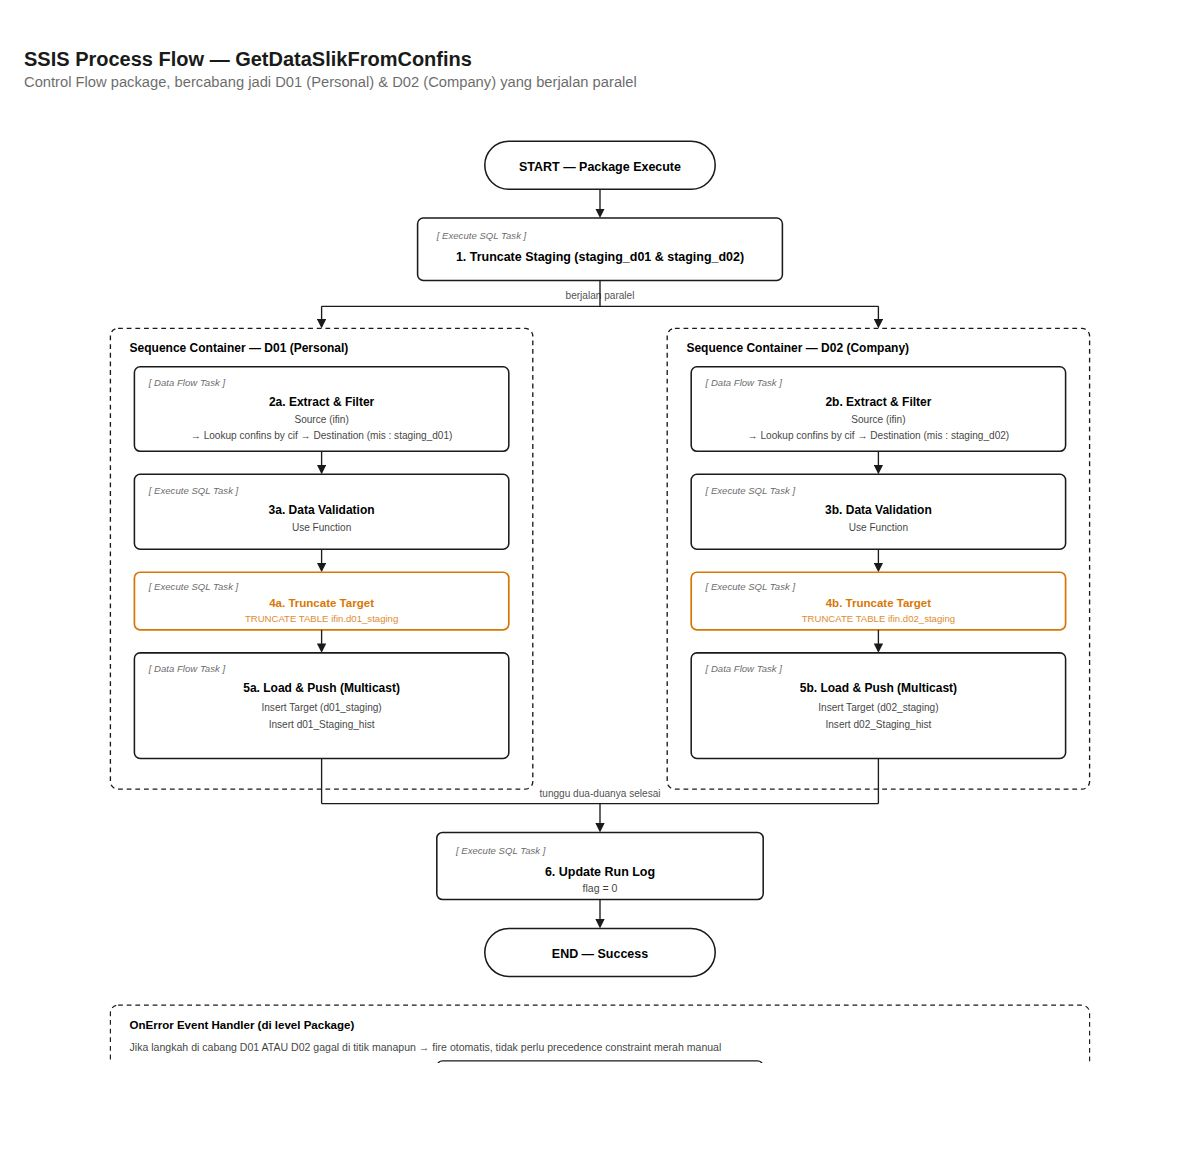
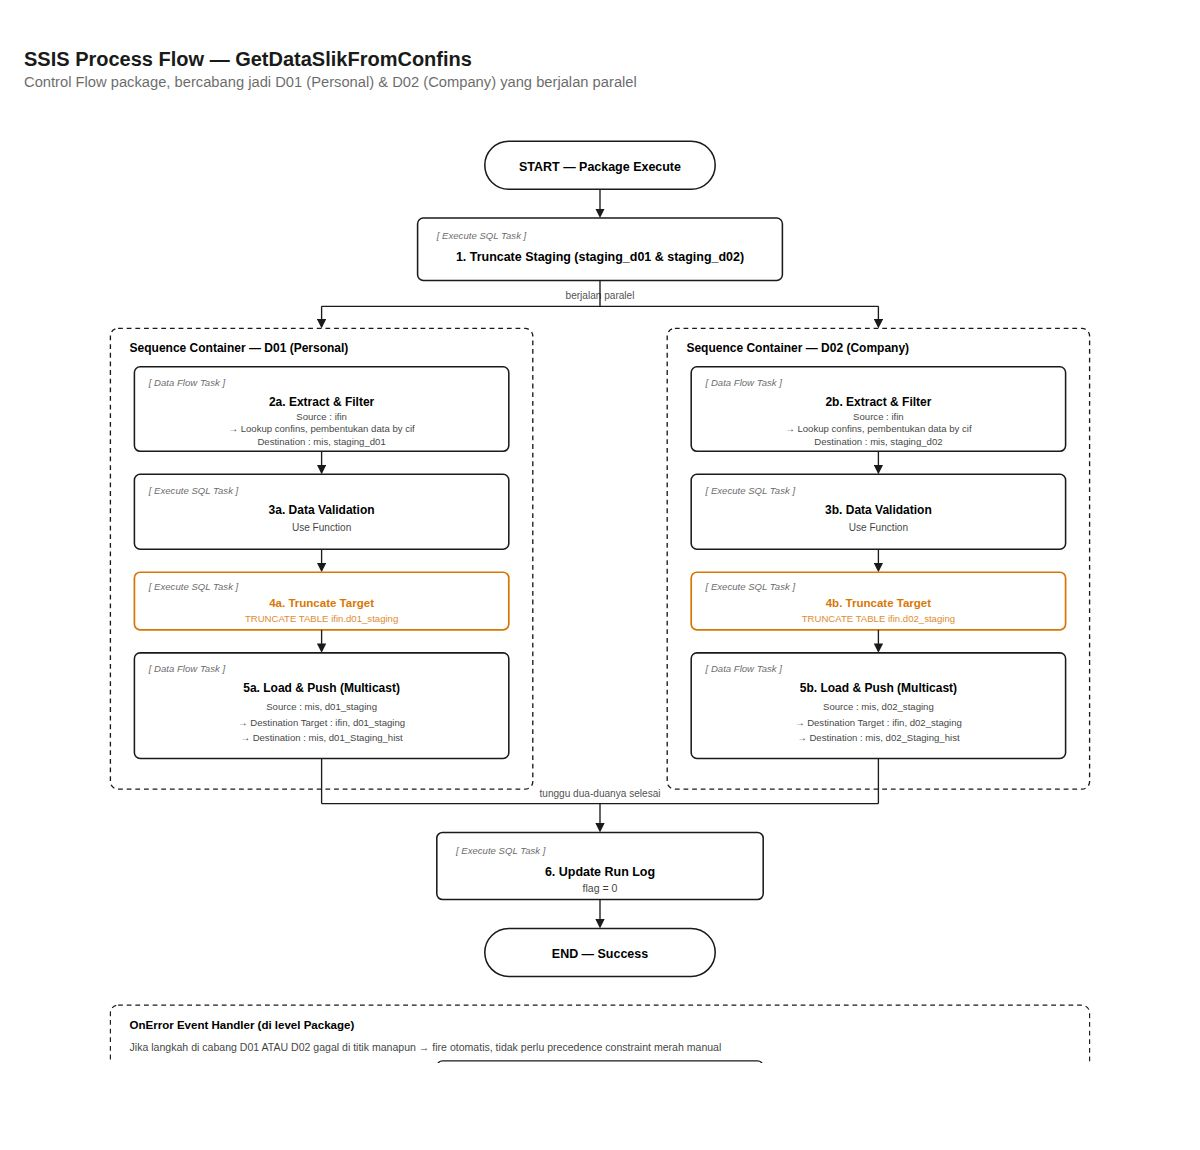
Align Load & Push / Extract & Filter wording between D01 and D02 branches
2a/2b: 'Source : ifin / -> Lookup confins, pembentukan data by cif /
Destination : mis, staging_dXX'
5a/5b: 'Source : mis, dXX_staging / -> Destination Target : ifin,
dXX_staging / -> Destination : mis, dXX_Staging_hist'

diff --git a/diagrams/slik-process-flow.html b/diagrams/slik-process-flow.html
@@ -63,8 +63,9 @@
       <rect x="115" y="255" width="390" height="88" rx="6" fill="none" stroke="currentColor" stroke-width="1.6"/>
       <text x="130" y="275" font-size="10" opacity="0.6" font-style="italic">[ Data Flow Task ]</text>
       <text x="310" y="296" text-anchor="middle" font-size="12.5" font-weight="650">2a. Extract &amp; Filter</text>
-      <text x="310" y="314" text-anchor="middle" font-size="10.5" opacity="0.75">Source (ifin)</text>
-      <text x="310" y="330" text-anchor="middle" font-size="10.5" opacity="0.75">→ Lookup confins by cif → Destination (mis : staging_d01)</text>
+      <text x="310" y="310" text-anchor="middle" font-size="10" opacity="0.75">Source : ifin</text>
+      <text x="310" y="323" text-anchor="middle" font-size="10" opacity="0.75">→ Lookup confins, pembentukan data by cif</text>
+      <text x="310" y="336" text-anchor="middle" font-size="10" opacity="0.75">Destination : mis, staging_d01</text>
       <line x1="310" y1="343" x2="310" y2="365" stroke="currentColor" stroke-width="1.4" marker-end="url(#arrow)"/>
 
       <rect x="115" y="367" width="390" height="78" rx="6" fill="none" stroke="currentColor" stroke-width="1.6"/>
@@ -83,8 +84,9 @@
       <rect x="115" y="553" width="390" height="110" rx="6" fill="none" stroke="currentColor" stroke-width="1.6"/>
       <text x="130" y="573" font-size="10" opacity="0.6" font-style="italic">[ Data Flow Task ]</text>
       <text x="310" y="594" text-anchor="middle" font-size="12.5" font-weight="650">5a. Load &amp; Push (Multicast)</text>
-      <text x="310" y="614" text-anchor="middle" font-size="10.5" opacity="0.75">Insert Target (d01_staging)</text>
-      <text x="310" y="631" text-anchor="middle" font-size="10.5" opacity="0.75">Insert d01_Staging_hist</text>
+      <text x="310" y="613" text-anchor="middle" font-size="10" opacity="0.75">Source : mis, d01_staging</text>
+      <text x="310" y="629" text-anchor="middle" font-size="10" opacity="0.75">→ Destination Target : ifin, d01_staging</text>
+      <text x="310" y="645" text-anchor="middle" font-size="10" opacity="0.75">→ Destination : mis, d01_Staging_hist</text>
 
       <!-- Sequence Container D02 (Company) -->
       <rect x="670" y="215" width="440" height="480" rx="8" fill="none" stroke="currentColor" stroke-width="1.4" stroke-dasharray="5 4"/>
@@ -93,8 +95,9 @@
       <rect x="695" y="255" width="390" height="88" rx="6" fill="none" stroke="currentColor" stroke-width="1.6"/>
       <text x="710" y="275" font-size="10" opacity="0.6" font-style="italic">[ Data Flow Task ]</text>
       <text x="890" y="296" text-anchor="middle" font-size="12.5" font-weight="650">2b. Extract &amp; Filter</text>
-      <text x="890" y="314" text-anchor="middle" font-size="10.5" opacity="0.75">Source (ifin)</text>
-      <text x="890" y="330" text-anchor="middle" font-size="10.5" opacity="0.75">→ Lookup confins by cif → Destination (mis : staging_d02)</text>
+      <text x="890" y="310" text-anchor="middle" font-size="10" opacity="0.75">Source : ifin</text>
+      <text x="890" y="323" text-anchor="middle" font-size="10" opacity="0.75">→ Lookup confins, pembentukan data by cif</text>
+      <text x="890" y="336" text-anchor="middle" font-size="10" opacity="0.75">Destination : mis, staging_d02</text>
       <line x1="890" y1="343" x2="890" y2="365" stroke="currentColor" stroke-width="1.4" marker-end="url(#arrow)"/>
 
       <rect x="695" y="367" width="390" height="78" rx="6" fill="none" stroke="currentColor" stroke-width="1.6"/>
@@ -113,8 +116,9 @@
       <rect x="695" y="553" width="390" height="110" rx="6" fill="none" stroke="currentColor" stroke-width="1.6"/>
       <text x="710" y="573" font-size="10" opacity="0.6" font-style="italic">[ Data Flow Task ]</text>
       <text x="890" y="594" text-anchor="middle" font-size="12.5" font-weight="650">5b. Load &amp; Push (Multicast)</text>
-      <text x="890" y="614" text-anchor="middle" font-size="10.5" opacity="0.75">Insert Target (d02_staging)</text>
-      <text x="890" y="631" text-anchor="middle" font-size="10.5" opacity="0.75">Insert d02_Staging_hist</text>
+      <text x="890" y="613" text-anchor="middle" font-size="10" opacity="0.75">Source : mis, d02_staging</text>
+      <text x="890" y="629" text-anchor="middle" font-size="10" opacity="0.75">→ Destination Target : ifin, d02_staging</text>
+      <text x="890" y="645" text-anchor="middle" font-size="10" opacity="0.75">→ Destination : mis, d02_Staging_hist</text>
 
       <!-- Converge -->
       <line x1="310" y1="663" x2="310" y2="710" stroke="currentColor" stroke-width="1.4"/>
